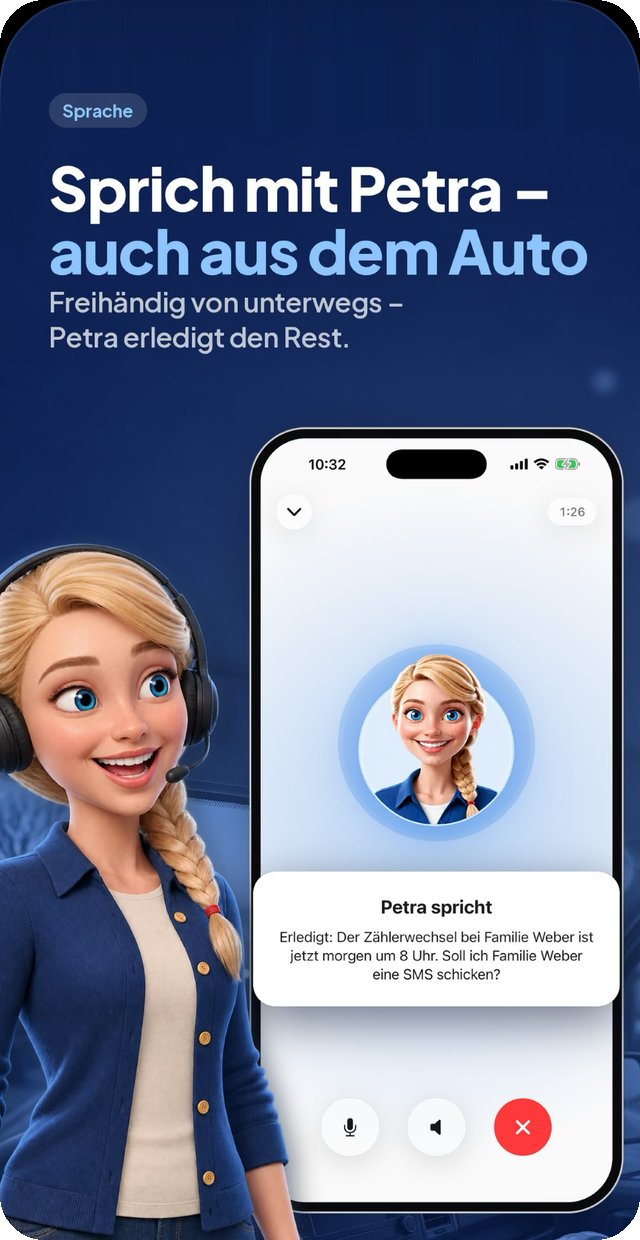
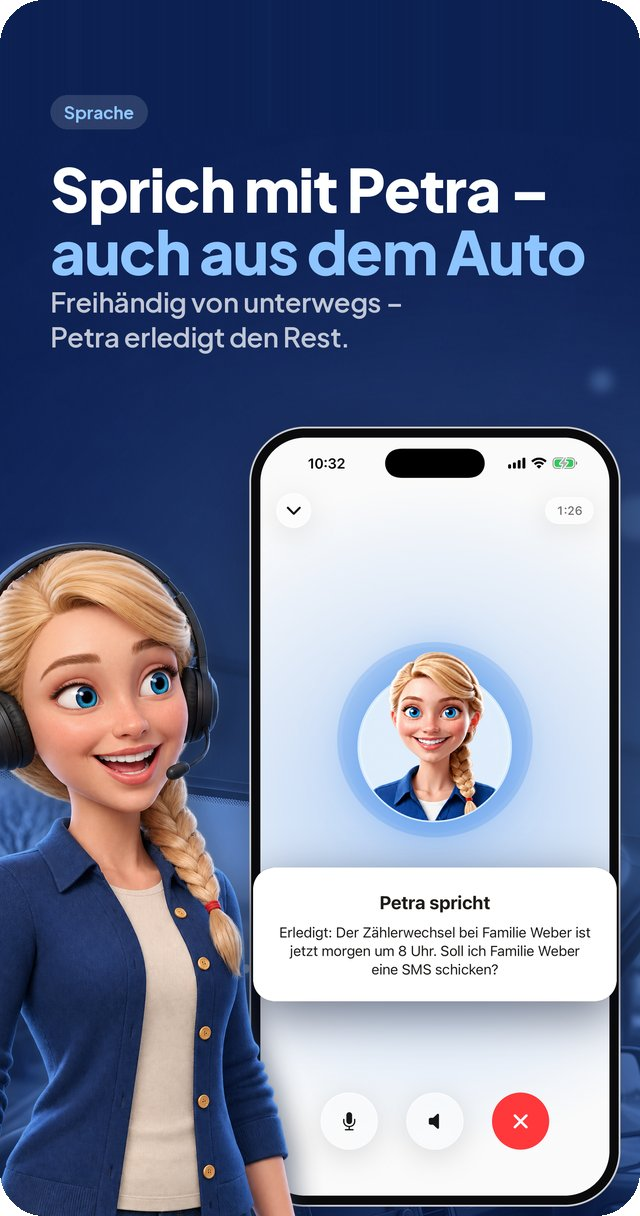
KW46: Sprach-Grafik aus Leos Original

diff --git a/newsletter-kw46-resend.html b/newsletter-kw46-resend.html
@@ -117,7 +117,7 @@
                   <td class="px28" style="background:#ffffff;padding-top:30px;padding-bottom:32px;border-radius:22px;" bgcolor="#ffffff">
                     <p style="font-family:Arial,Helvetica,sans-serif;font-size:12px;font-weight:800;letter-spacing:1.8px;text-transform:uppercase;color:#8b96ad;margin:0 0 10px;text-align:center;">Ein erster Blick</p>
                     <p class="h2" style="margin:0 0 18px;text-align:center;font-size:28px;line-height:34px;">Sag's einfach Petra.</p>
-                    <table role="presentation" cellspacing="0" cellpadding="0" border="0" align="center" style="margin:0 auto 24px;"><tr><td style="border-radius:22px;box-shadow:0 14px 34px rgba(15,26,60,0.22);font-size:0;line-height:0;" bgcolor="#1d2f6e"><img src="https://raw.githubusercontent.com/jesko-maker/hallopetra-referral/main/app-sprache-screen.jpg" width="300" height="581" alt="Die HalloPetra-App: Sprich mit Petra, auch aus dem Auto" style="width:300px;max-width:100%;height:auto;display:block;border-radius:22px;color:#0f1a3c;font-size:15px;font-weight:bold;background-color:#1d2f6e;"></td></tr></table>
+                    <table role="presentation" cellspacing="0" cellpadding="0" border="0" align="center" style="margin:0 auto 24px;"><tr><td style="border-radius:22px;box-shadow:0 14px 34px rgba(15,26,60,0.22);font-size:0;line-height:0;" bgcolor="#1d2f6e"><img src="https://raw.githubusercontent.com/jesko-maker/hallopetra-referral/main/app-sprache-screen.jpg" width="300" height="570" alt="Die HalloPetra-App: Sprich mit Petra, auch aus dem Auto" style="width:300px;max-width:100%;height:auto;display:block;border-radius:22px;color:#0f1a3c;font-size:15px;font-weight:bold;background-color:#1d2f6e;"></td></tr></table>
                     <p style="font-family:Arial,Helvetica,sans-serif;font-size:16px;line-height:26px;color:#47546c;margin:0 0 14px;">Du sitzt im Auto, die Hände am Lenkrad, und dir fällt ein: Der Termin morgen früh muss auf Donnerstag. Mit der App sagst du es einfach Petra, so wie du es einer Kollegin im Büro sagen würdest.</p>
                     <p style="font-family:Arial,Helvetica,sans-serif;font-size:16px;line-height:26px;color:#47546c;margin:0 0 26px;">Sie verschiebt den Termin, legt dir eine Aufgabe an oder bereitet eine Nachricht an den Kunden vor. Ohne Tippen, über die Freisprechanlage im Auto genauso wie auf der Baustelle.</p>
                     <table role="presentation" width="100%" cellspacing="0" cellpadding="0" border="0"><tr><td style="border-top:1px solid #e3e7f0;padding-top:20px;">

diff --git a/newsletter-kw46/build_newsletter_kw46.py b/newsletter-kw46/build_newsletter_kw46.py
@@ -164,7 +164,7 @@ def teaser(title, text, last=False):
 
 cards.append(card(f'''                    <p style="{F}font-size:12px;font-weight:800;letter-spacing:1.8px;text-transform:uppercase;color:#8b96ad;margin:0 0 10px;text-align:center;">Ein erster Blick</p>
                     <p class="h2" style="margin:0 0 18px;text-align:center;font-size:28px;line-height:34px;">Sag's einfach Petra.</p>
-                    <table role="presentation" cellspacing="0" cellpadding="0" border="0" align="center" style="margin:0 auto 24px;"><tr><td style="border-radius:22px;box-shadow:0 14px 34px rgba(15,26,60,0.22);font-size:0;line-height:0;" bgcolor="#1d2f6e"><img src="{RAW}app-sprache-screen.jpg" width="300" height="581" alt="Die HalloPetra-App: Sprich mit Petra, auch aus dem Auto" style="width:300px;max-width:100%;height:auto;display:block;border-radius:22px;color:#0f1a3c;font-size:15px;font-weight:bold;background-color:#1d2f6e;"></td></tr></table>
+                    <table role="presentation" cellspacing="0" cellpadding="0" border="0" align="center" style="margin:0 auto 24px;"><tr><td style="border-radius:22px;box-shadow:0 14px 34px rgba(15,26,60,0.22);font-size:0;line-height:0;" bgcolor="#1d2f6e"><img src="{RAW}app-sprache-screen.jpg" width="300" height="570" alt="Die HalloPetra-App: Sprich mit Petra, auch aus dem Auto" style="width:300px;max-width:100%;height:auto;display:block;border-radius:22px;color:#0f1a3c;font-size:15px;font-weight:bold;background-color:#1d2f6e;"></td></tr></table>
                     <p style="{F}font-size:16px;line-height:26px;color:#47546c;margin:0 0 14px;">Du sitzt im Auto, die Hände am Lenkrad, und dir fällt ein: Der Termin morgen früh muss auf Donnerstag. Mit der App sagst du es einfach Petra, so wie du es einer Kollegin im Büro sagen würdest.</p>
                     <p style="{F}font-size:16px;line-height:26px;color:#47546c;margin:0 0 26px;">Sie verschiebt den Termin, legt dir eine Aufgabe an oder bereitet eine Nachricht an den Kunden vor. Ohne Tippen, über die Freisprechanlage im Auto genauso wie auf der Baustelle.</p>
                     <table role="presentation" width="100%" cellspacing="0" cellpadding="0" border="0"><tr><td style="border-top:1px solid #e3e7f0;padding-top:20px;">
